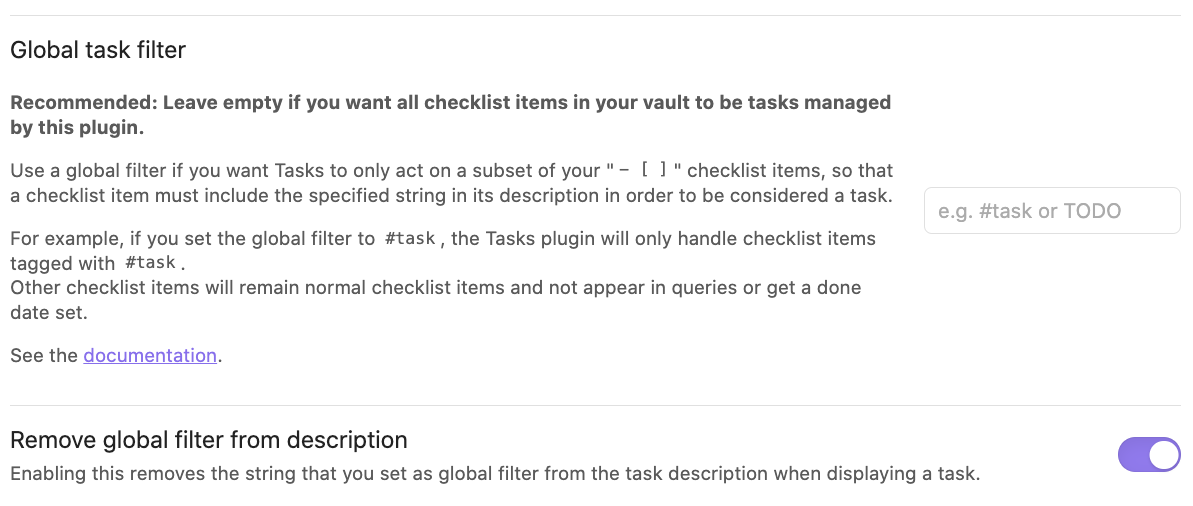
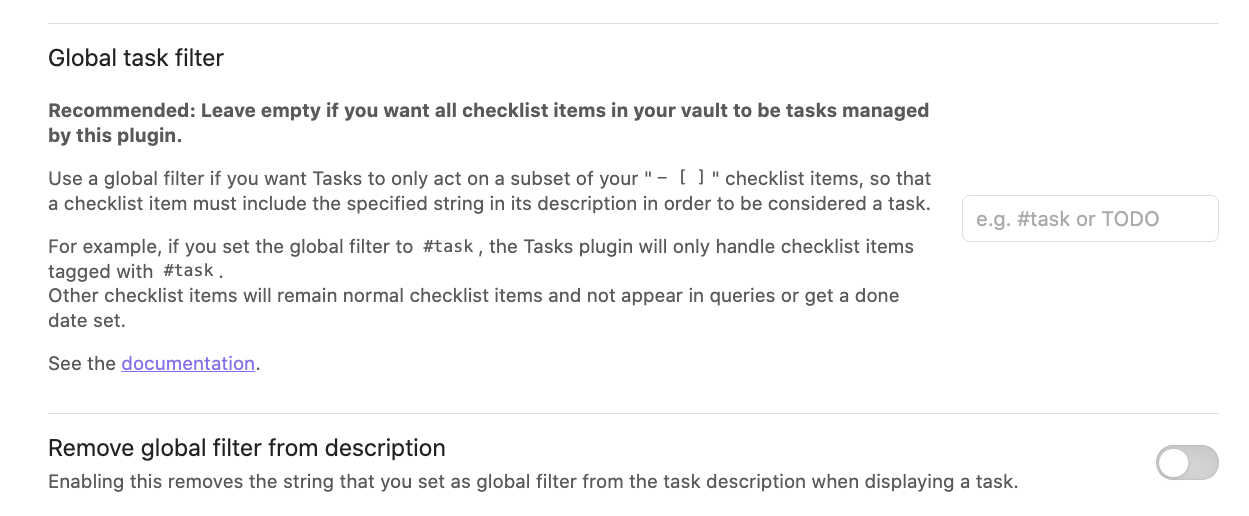
docs: Screenshot of Global Filter options now shows defaults

diff --git a/docs/getting-started/global-filter.md b/docs/getting-started/global-filter.md
@@ -52,4 +52,4 @@ Note you must restart Tasks after changing any settings here.
 
 ![settings-global-filter](../images/settings-global-filter.png)
 
-Image of the settings options for the global filter.
+Image of the settings options for the global filter, showing the default settings.
